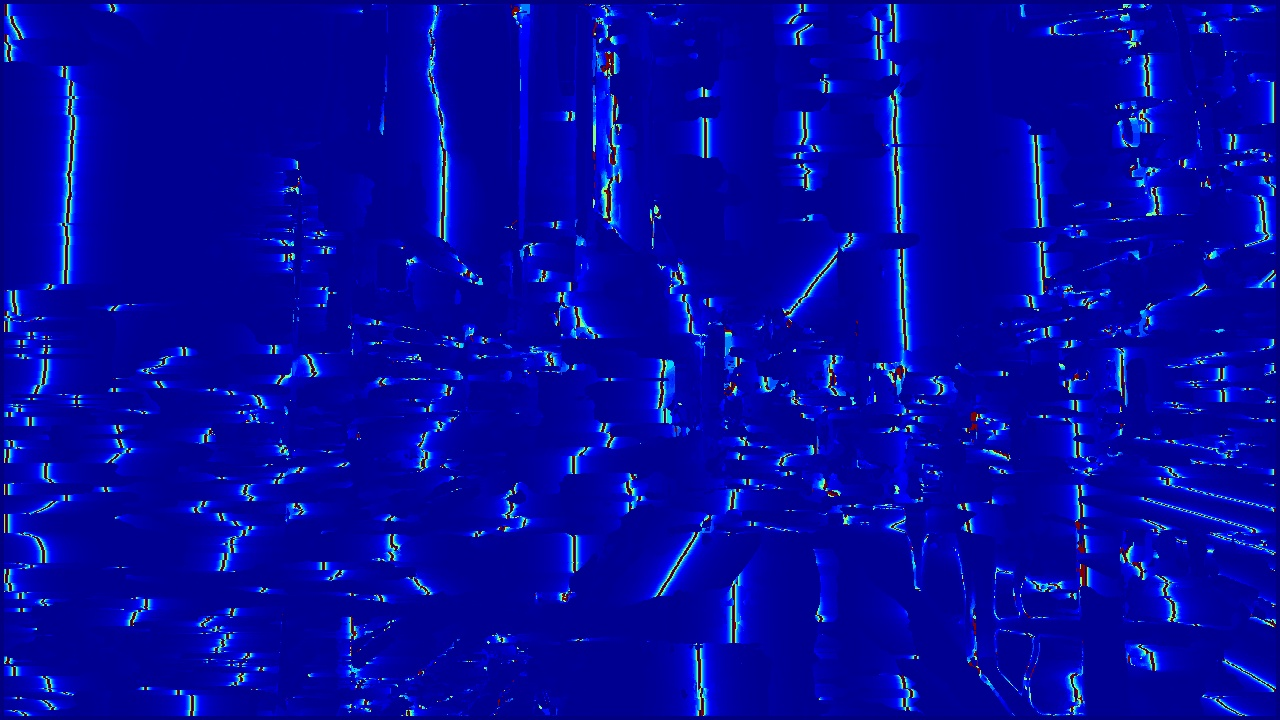
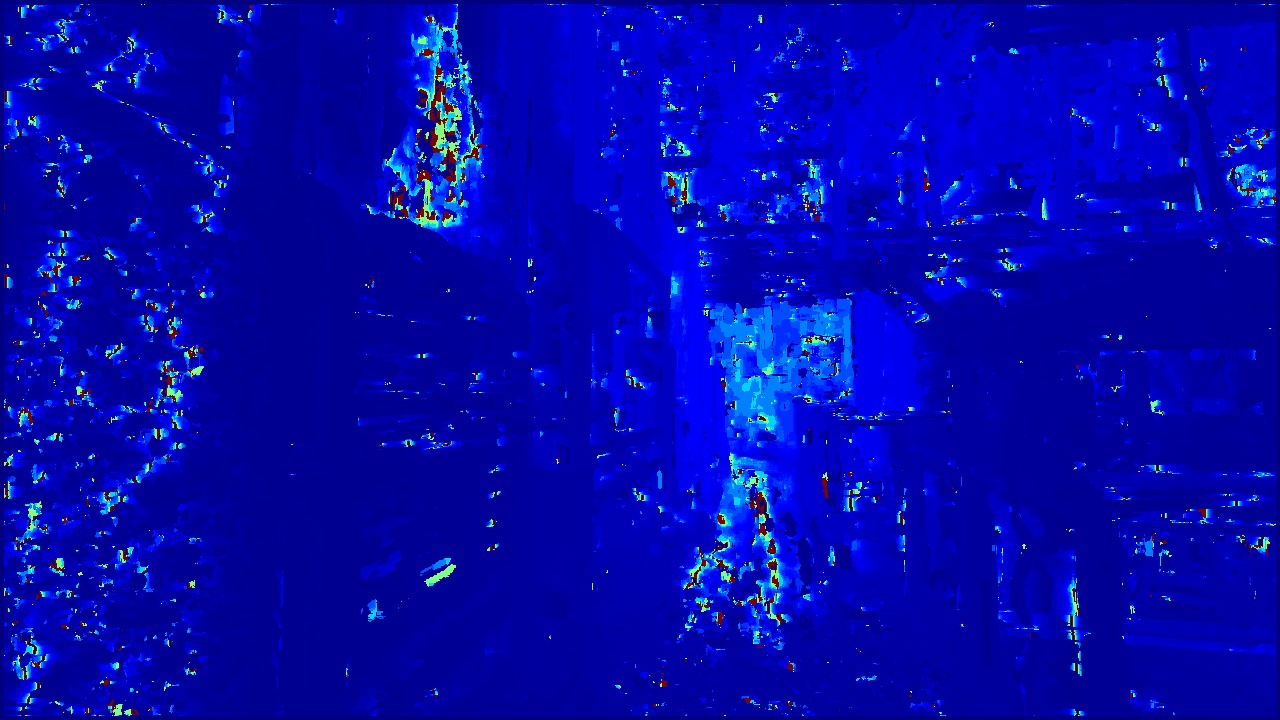
successful depth map created

diff --git a/disparity_mapping/main.cpp b/disparity_mapping/main.cpp
@@ -4,7 +4,7 @@
 
 int main() {
     const std::string leftImagePath = "../rectified_images/left_rect_1.jpg";
-    const std::string rightImagePath = "../rectified_images/right_rect_2.jpg";
+    const std::string rightImagePath = "../rectified_images/right_rect_1.jpg";
 
     // take in rectified images
     cv::Mat left_img = cv::imread(leftImagePath, cv::IMREAD_COLOR);
